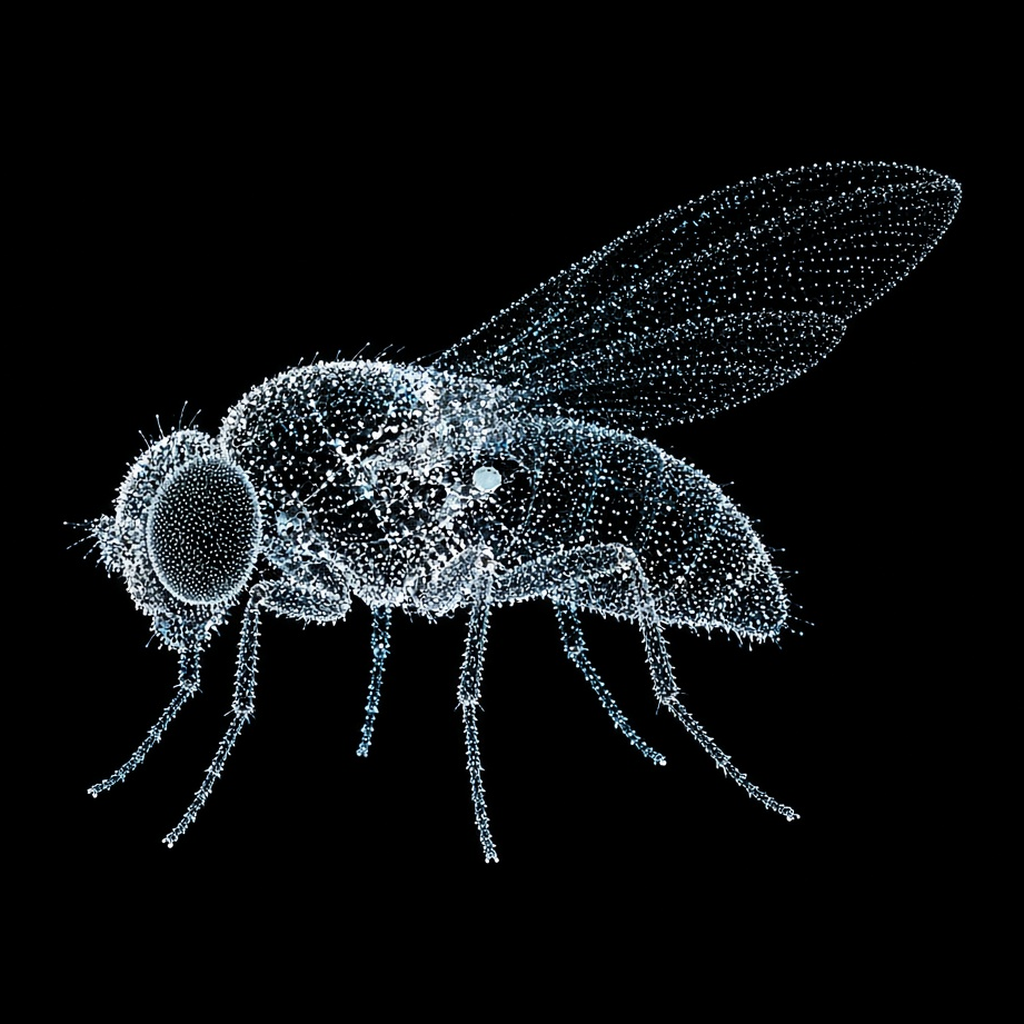
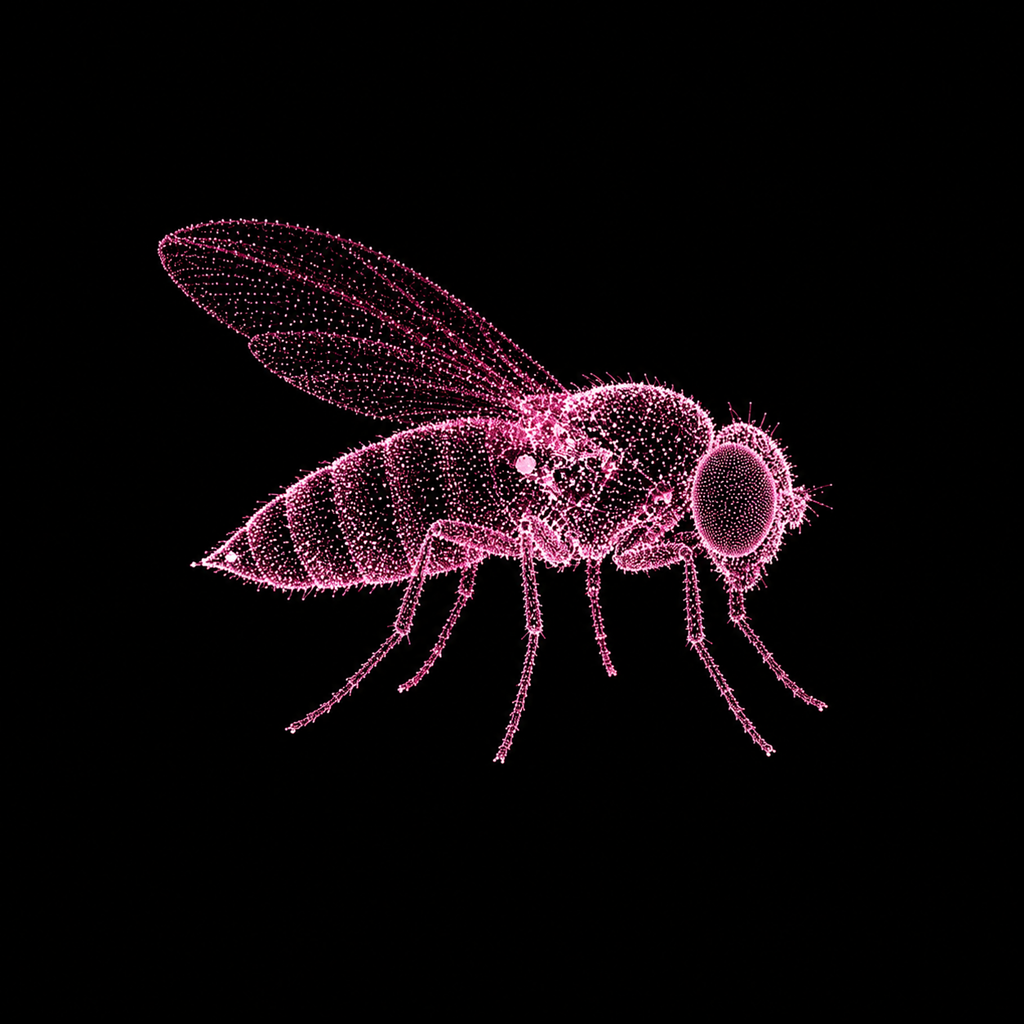
Tell the site whose brain this is

diff --git a/site/web/index.html b/site/web/index.html
@@ -3,10 +3,10 @@
 <head>
 <meta charset="utf-8">
 <meta name="viewport" content="width=device-width,initial-scale=1">
-<title>FLYBRAIN</title>
-<meta name="description" content="165,122 neurons of a real fruit fly connectome, loose on the internet and learning.">
-<meta property="og:title" content="FLYBRAIN">
-<meta property="og:description" content="165,122 neurons of a real fruit fly connectome, loose on the internet and learning.">
+<title>FEMALE FLYBRAIN</title>
+<meta name="description" content="139,255 neurons of a real female fruit fly connectome, loose on the internet and learning.">
+<meta property="og:title" content="FEMALE FLYBRAIN">
+<meta property="og:description" content="139,255 neurons of a real female fruit fly connectome, loose on the internet and learning.">
 <meta property="og:image" content="/fly.png">
 <meta name="twitter:card" content="summary_large_image">
 <link rel="icon" href="/fly.png">
@@ -21,12 +21,12 @@
   --dot-hi:#dceef8;
   --dot-mid:#7db8d4;
   /* contrast against --ground #06070a, measured:
-     ink 14.6:1  ink-dim 7.4:1  ink-faint 4.8:1  cyan 9.6:1  amber 8.9:1
+     ink 14.6:1  ink-dim 7.4:1  ink-faint 4.8:1  amber 8.9:1
      the old values were 4.0:1 and 2.3:1, which is why nothing read */
   --ink:#e2eaf1;
   --ink-dim:#9dabb7;
   --ink-faint:#75828d;
-  --cyan:#7deaff;
+  --cyan:#ff79b0;
   --amber:#f0bc5f;
   --live:#6fdca6;
   --serif:"Instrument Serif",Georgia,"Times New Roman",serif;
@@ -344,13 +344,13 @@ footer .links{display:flex;flex-wrap:wrap;gap:22px;margin-bottom:20px}
 
 <div class="plate">
   <canvas id="fly" aria-label="A fruit fly drawn as a cloud of points"></canvas>
-  <div class="corner tl">specimen<br><span style="color:var(--ink-dim)">male CNS v1.0</span></div>
+  <div class="corner tl">specimen<br><span style="color:var(--ink-dim)">FlyWire FAFB v783, female</span></div>
   <div class="corner tr">Robinhood Chain<br><span id="blk" style="color:var(--ink-dim)">block —</span></div>
-  <div class="corner bl">165,122 neurons<br><span style="color:var(--ink-dim)">10,228,000 connections</span></div>
+  <div class="corner bl">139,255 neurons<br><span style="color:var(--ink-dim)">3,641,142 connections</span></div>
   <div class="corner br"><span class="tick" id="livedot">●</span> observed live<br><span id="upd" style="color:var(--ink-dim)">—</span></div>
   <div class="title">
-    <h1>FLYBRAIN</h1>
-    <div class="latin">Drosophila melanogaster</div>
+    <h1>FEMALE FLYBRAIN</h1>
+    <div class="latin">sister build of FLYBRAIN. same experiment, the other sex.</div>
   </div>
 </div>
 
@@ -358,11 +358,11 @@ footer .links{display:flex;flex-wrap:wrap;gap:22px;margin-bottom:20px}
   <div class="wrap wide">
     <div class="eyebrow">live</div>
     <h2>Where the fly is right now</h2>
-    <p class="lede">A page goes in through 892 hex columns, 165,122 neurons integrate, and a cursor comes out. Every number on this panel is read out of the running simulation.</p>
+    <p class="lede">A page goes in through 785 hex columns per eye, both eyes on one shared grid; 139,255 neurons integrate, and a cursor comes out. Every number on this panel is read out of the running simulation.</p>
 
     <div class="term">
       <div class="tbar">
-        <span class="tname">FLYBRAIN LIVE</span>
+        <span class="tname">FEMALE FLYBRAIN LIVE</span>
         <span class="tdim">DROSOPHILA CONNECTOME &middot; OPEN INTERNET</span>
         <span class="tpills">
           <span class="pip2" id="p-vision">VISION</span>
@@ -372,7 +372,7 @@ footer .links{display:flex;flex-wrap:wrap;gap:22px;margin-bottom:20px}
           <span class="pip2 off" id="p-wallet">WALLET</span>
         </span>
         <span class="tspacer"></span>
-        <span class="tdim">165,122 NEURONS &nbsp; 10,228,000 EDGES</span>
+        <span class="tdim">139,255 NEURONS &nbsp; 3,641,142 EDGES</span>
         <span class="tlive" id="t-live">&#9679; LIVE</span>
       </div>
 
@@ -388,7 +388,7 @@ footer .links{display:flex;flex-wrap:wrap;gap:22px;margin-bottom:20px}
           <div class="tblk">
             <div class="tk">Neural activity</div>
             <div class="tbig" id="n-firing">&mdash;</div>
-            <div class="tsub">NEURONS FIRING <span class="tdim">of 165,122</span></div>
+            <div class="tsub">NEURONS FIRING <span class="tdim">of 139,255</span></div>
             <canvas id="n-spark" class="spark"></canvas>
             <div class="tquad">
               <div><div class="tql">spikes/sec</div><div class="tqv" id="n-spikes">&mdash;</div></div>
@@ -409,7 +409,7 @@ footer .links{display:flex;flex-wrap:wrap;gap:22px;margin-bottom:20px}
           </div>
 
           <div class="tblk">
-            <div class="tk">Vision &rarr; retina</div>
+            <div class="tk">Vision, retina</div>
             <div class="tvis">
               <canvas id="n-retina"></canvas>
               <div class="tvismeta">
@@ -429,7 +429,7 @@ footer .links{display:flex;flex-wrap:wrap;gap:22px;margin-bottom:20px}
               <div><div class="tql">punishments</div><div class="tqv" id="l-pun">&mdash;</div></div>
             </div>
             <div class="tsub" style="margin-top:8px;text-transform:none;letter-spacing:0">
-              <span class="tdim">KC&rarr;MBON synapses under dopamine. Depression only &mdash; that is the rule a fly actually uses.</span>
+              <span class="tdim">KC to MBON synapses under dopamine. Depression only &mdash; that is the rule a fly actually uses.</span>
             </div>
           </div>
 
@@ -461,7 +461,7 @@ footer .links{display:flex;flex-wrap:wrap;gap:22px;margin-bottom:20px}
 <div class="cabar">
   <div class="wrap cain">
     <div>
-      <div class="calabel">Contract address &middot; $FLYBRAIN</div>
+      <div class="calabel">Contract address &middot; $HER</div>
       <div class="caval" id="ca-text">&mdash;</div>
     </div>
     <button class="copy" id="ca-copy" type="button">
@@ -480,8 +480,8 @@ footer .links{display:flex;flex-wrap:wrap;gap:22px;margin-bottom:20px}
   <div class="wrap">
     <div class="eyebrow">what it is</div>
     <h2>A real nervous system, not a metaphor</h2>
-    <p class="lede">Every connection in this thing was traced from electron microscope images of an actual male fruit fly. Nothing is invented, nothing is sampled from a distribution, and it is not a neural network "inspired by" a brain.</p>
-    <p>The male <em style="font-family:var(--serif);font-style:italic">Drosophila</em> CNS connectome was released in September 2026 by HHMI Janelia FlyEM, the Cambridge Connectomics Group and Google Research, under CC-BY. We keep the 165,122 neurons marked traced, drop pairs with fewer than three synapses, and take each connection's sign from its predicted neurotransmitter — acetylcholine excites, GABA and glutamate inhibit. The neurons run as leaky integrate-and-fire units: rest &minus;52&nbsp;mV, threshold &minus;45&nbsp;mV, 20&nbsp;ms tau.</p>
+    <p class="lede">This is the whole adult female <em style="font-family:var(--serif);font-style:italic">Drosophila melanogaster</em> brain from FlyWire FAFB v783. The connectome supplies the wiring; the simulation runs it.</p>
+    <p>FlyWire FAFB v783 was released under CC-BY by the FlyWire Consortium, Princeton University and the University of Cambridge: Dorkenwald et al. 2024 (Nature) and Schlegel et al. 2024 (Nature). We keep FlyWire's filtered export, at least five synapses per pair: 139,255 neurons and 3,641,142 signed connections. Transmitter labels are assigned by cell-type majority vote, changing 22,889 labels. The neurons run as leaky integrate-and-fire units: rest &minus;52&nbsp;mV, threshold &minus;45&nbsp;mV, 20&nbsp;ms tau.</p>
   </div>
 </section>
 
@@ -489,16 +489,40 @@ footer .links{display:flex;flex-wrap:wrap;gap:22px;margin-bottom:20px}
   <div class="wrap">
     <div class="eyebrow">how it reaches the world</div>
     <h2>It sees with a fly's eye and moves with a fly's legs</h2>
-    <p class="lede">A screenshot of a live web page is sampled through 892 retinotopic hex columns into L1 and L2 — the lamina monopolar cells sitting directly behind photoreceptors R1–R6. All 165,122 neurons integrate. The cursor comes back out of the descending neurons a fly actually walks with.</p>
+    <p class="lede">A screenshot of a live web page is sampled through 785 hex columns per eye, both eyes on one shared grid: 783 left and 789 right L1 cells. All 139,255 neurons integrate. The descending neurons used have the same names and counts per side as in the male brain: DNa02 (1), DNa01 (1), MDN (4) and DNp09 (2).</p>
     <div class="wires">
       <div class="wire"><div class="cell">DNa02</div><div class="role">Left versus right. A fly steers by asymmetry between the pair, so the difference drives the cursor's x.</div></div>
       <div class="wire"><div class="cell">DNa01</div><div class="role">Forward walking. Drives the cursor's y.</div></div>
       <div class="wire"><div class="cell">MDN</div><div class="role">The Moonwalker neuron. Makes a fly walk backwards; here it reverses.</div></div>
-      <div class="wire"><div class="cell">DNp09</div><div class="role">Stopping. A fly freezes when it fires, so it became the click.</div></div>
+      <div class="wire"><div class="cell">DNp09</div><div class="role">Stopping. The female export has no MN9; she clicks from 24 proboscis motor neurons, with a threshold of 100 Hz.</div></div>
     </div>
   </div>
 </section>
 
+
+<section>
+  <div class="wrap">
+    <div class="eyebrow">the comparison</div>
+    <h2>Same experiment, the other sex</h2>
+    <p class="lede">The same rig runs both brains. The dataset, retina and click source differ.</p>
+    <div class="scroll"><table>
+      <thead><tr><th scope="col"></th><th scope="col">Male</th><th scope="col">Female</th></tr></thead>
+      <tbody>
+        <tr><th scope="row">Dataset</th><td>Janelia male CNS v1.0 (HHMI Janelia FlyEM, Cambridge Connectomics Group, Google Research), CC-BY</td><td>FlyWire FAFB v783 (FlyWire Consortium, Princeton University, University of Cambridge), CC-BY</td></tr>
+        <tr><th scope="row">Neurons</th><td>165,122</td><td>139,255</td></tr>
+        <tr><th scope="row">Connections</th><td>10,228,000, at least 3 synapses per pair</td><td>3,641,142 signed, filtered export with at least 5 synapses per pair</td></tr>
+        <tr><th scope="row">Hex columns per eye</th><td>892</td><td>785</td></tr>
+        <tr><th scope="row">Retina</th><td>892 columns</td><td>both eyes on one shared grid, 783 left L1 and 789 right L1 cells</td></tr>
+        <tr><th scope="row">Descending neurons used, per side</th><td>DNa02 (1), DNa01 (1), MDN (4), DNp09 (2)</td><td>DNa02 (1), DNa01 (1), MDN (4), DNp09 (2)</td></tr>
+        <tr><th scope="row">Click neuron</th><td>MN9, threshold 330 Hz</td><td>no MN9 in the export; 24 proboscis motor neurons, threshold 100 Hz</td></tr>
+        <tr><th scope="row">Simulation step time</th><td>0.33 s</td><td>0.12 s, same code, smaller graph</td></tr>
+        <tr><th scope="row">Offline form score</th><td>2 of 3 fields</td><td>2 of 3 fields</td></tr>
+        <tr><th scope="row">Live form score</th><td>not published</td><td>1 of 3 fields, ticker</td></tr>
+      </tbody>
+    </table></div>
+    <p style="margin-top:22px">The descending motor side is identical by name and count in both brains. The fixes that made her walk were two constants and one relabelling, all in the repo, all measurable with <code>compare.py</code> and <code>measure.py</code>.</p>
+  </div>
+</section>
 
 <section>
   <div class="wrap">
@@ -506,14 +530,14 @@ footer .links{display:flex;flex-wrap:wrap;gap:22px;margin-bottom:20px}
     <h2>How it got here</h2>
     <p class="lede">Not a roadmap of promises — a sequence, with everything before the amber line already done and checkable in the repo.</p>
     <div class="path">
-      <div class="step done"><div class="no">01</div><div class="what">Connectome loaded<em>165,122 traced neurons, 10,228,000 signed connections, built from the public dataset</em></div><div class="tag">done</div></div>
-      <div class="step done"><div class="no">02</div><div class="what">Eye wired<em>892 hex columns into L1 and L2, sampling a live browser</em></div><div class="tag">done</div></div>
-      <div class="step done"><div class="no">03</div><div class="what">Hands wired<em>DNa02, DNa01, MDN and DNp09 driving a real mouse</em></div><div class="tag">done</div></div>
-      <div class="step done"><div class="no">04</div><div class="what">Trained without touching the wiring<em>Only per-cell-type synaptic gains, by evolution strategy. Held-out +20.85 against +2.65 untrained</em></div><div class="tag">done</div></div>
-      <div class="step done"><div class="no">05</div><div class="what">Launched a token on-chain<em>It filled the form and the click produced one signed transaction</em></div><div class="tag">done</div></div>
-      <div class="step done"><div class="no">06</div><div class="what">Reward loop closed<em>44,042 KC&rarr;MBON synapses under dopamine, depressed the way a fly’s actually are. Twenty rewarded encounters moved reward-side MBONs −6.0%, left punishment-side at −0.9% and Kenyon cells unchanged</em></div><div class="tag">done</div></div>
-      <div class="step now"><div class="no">07</div><div class="what">Give it a nose<em>2,635 olfactory receptor neurons across 53 receptor types, fed token metadata as if it were an odour &mdash; a second opinion that is not visual</em></div><div class="tag">building</div></div>
-      <div class="step done"><div class="no">08</div><div class="what">Released<em>A budget, a browser, no schedule and no instructions. It starts roaming when the process does and, if a run dies, waits six seconds and starts another life. Nobody picks where it goes</em></div><div class="tag">done</div></div>
+      <div class="step done"><div class="no">01</div><div class="what">Forked<em>Started from FLYBRAIN's public rig. Three setup bugs fixed and reported upstream.</em></div><div class="tag">done</div></div>
+      <div class="step done"><div class="no">02</div><div class="what">Female connectome loaded<em>139,255 neurons, 3,641,142 signed connections, FlyWire FAFB v783.</em></div><div class="tag">done</div></div>
+      <div class="step done"><div class="no">03</div><div class="what">Blind at first<em>On a white screen 19,215 neurons fired and the steering neurons sat at their ceiling. Cause: per-cell neurotransmitter labels in the female export are noisy; a single mislabelled L1 to L5 synapse lit the whole medulla.</em></div><div class="tag">done</div></div>
+      <div class="step done"><div class="no">04</div><div class="what">Relabelled by cell type<em>One transmitter per type by majority vote, 22,889 labels changed; the white screen dropped to 691 neurons firing and the steering neurons went quiet.</em></div><div class="tag">done</div></div>
+      <div class="step done"><div class="no">05</div><div class="what">Both eyes<em>783 left and 789 right L1 cells on one shared hex grid, 785 columns per eye.</em></div><div class="tag">done</div></div>
+      <div class="step done"><div class="no">06</div><div class="what">One constant instead of a training run<em>Excitatory weights scaled by 0.5 put the steering neurons in the same band as the trained male; click threshold set to 100 Hz for her.</em></div><div class="tag">done</div></div>
+      <div class="step done"><div class="no">07</div><div class="what">Taught the form<em>55 cell-type gains by evolution strategy, 247 evaluations, offline 2 of 3 fields, the same as the male; live on the launchpad she typed the ticker herself, 1 of 3.</em></div><div class="tag">done</div></div>
+      <div class="step now"><div class="no">08</div><div class="what">Launch<em>She launches $HER from her own wallet on the same launchpad. Not yet.</em></div><div class="tag">building</div></div>
     </div>
   </div>
 </section>
@@ -521,10 +545,10 @@ footer .links{display:flex;flex-wrap:wrap;gap:22px;margin-bottom:20px}
 <section>
   <div class="wrap">
     <div class="eyebrow">on-chain</div>
-    <h2>$FLYBRAIN</h2>
-    <p class="lede">Launched by the fly, from the fly's own wallet, on Robinhood Chain. Read the receipt yourself rather than taking this page's word for it.</p>
+    <h2>$HER</h2>
+    <p class="lede">Launched by the female fly, from her own wallet, on Robinhood Chain. Until then this table is empty and says so.</p>
     <div class="scroll"><table>
-      <tr><th>Contract</th><td class="addr" id="t-ca">—</td></tr>
+      <tr><th>Contract</th><td class="addr" id="t-ca">Not launched</td></tr>
       <tr><th>Paired</th><td class="num" id="t-pair">—</td></tr>
       <tr><th>Creator tax</th><td class="num" id="t-tax">—</td></tr>
       <tr><th>Supply</th><td class="num" id="t-sup">—</td></tr>
@@ -539,9 +563,9 @@ footer .links{display:flex;flex-wrap:wrap;gap:22px;margin-bottom:20px}
     <div class="eyebrow">what is not real, stated plainly</div>
     <h2>The parts that aren't the fly</h2>
     <ul class="plain">
-      <li><b>The fly does not fill the whole form.</b> It reliably gets the description, often the ticker, rarely the name. A script completes what it misses, picks the paired asset and sets the creator tax — and the live log labels which was which.</li>
-      <li><b>It cannot read.</b> 892 columns is roughly a 30&times;30 pixel view. Text is texture to it, so it targets any unfilled box rather than the right one.</li>
-      <li><b>Light mode blinds it.</b> Its retina is a luminance map and all of its tuning was done against dark interfaces. On a light page it filled 0 of 3 fields; on a dark one, 2 of 3. That gap is the clearest evidence the eye is doing real work.</li>
+      <li><b>The fly does not fill the whole form.</b> She fills 2 of 3 fields offline and typed the ticker herself live, 1 of 3. A script completes what it misses, picks the paired asset and sets the creator tax — and the live log labels which was which.</li>
+      <li><b>It cannot read.</b> 785 columns per eye is roughly a 28&times;28 pixel view per eye. Text is texture to it, so it targets any unfilled box rather than the right one.</li>
+      <li><b>Light mode blinds the male rig.</b> The male rig filled 0 of 3 on a light page and 2 of 3 on a dark one; the female scores 2 of 3 offline and 1 of 3 live on the dark launchpad.</li>
       <li><b>It has no goals.</b> A fly brain has no language and no plan. It cannot read a page, form a view about a coin, or write a note. Releasing it means nobody is steering, not that it decided anything.</li>
       <li><b>The reward signal is invented.</b> The circuit, the plasticity site and the direction of the rule are all real and measured. What a fly is rewarded <em style="font-style:italic">by</em> is sugar, not by reaching a web page &mdash; novelty stands in for it here, and that is a choice a person made.</li>
       <li><b>It roams inside a fence.</b> An allowlist keeps it on Robinhood Chain and pons. That is a choice, not a limit of the fly &mdash; one environment variable takes the fence down, and an unfenced random clicker on a public stream is a bad idea for reasons that have nothing to do with the brain.</li>
@@ -552,12 +576,13 @@ footer .links{display:flex;flex-wrap:wrap;gap:22px;margin-bottom:20px}
 <footer>
   <div class="wrap">
     <div class="links">
-      <a href="https://github.com/fruitflydev/flycoinrh">source</a>
-      <a href="https://x.com/fruitflydev">@fruitflydev</a>
+      <a href="https://github.com/opifor/flybrain-female">source</a>
+      <a href="https://x.com/opifor">@opifor</a>
+      <span>sister of <a href="https://github.com/fruitflydev/flycoinrh">FLYBRAIN</a></span>
       <a id="f-scan" href="https://robinhoodchain.blockscout.com">explorer</a>
     </div>
     <div><span class="pill"><span class="pip" id="pip"></span><span id="pip-t">reading the chain</span></span></div>
-    <p style="margin-top:22px;max-width:66ch">Connectome data &copy; HHMI Janelia FlyEM, the Cambridge Connectomics Group and Google Research, released CC-BY. Simulation after Shiu et&nbsp;al. 2024 and Lappalainen et&nbsp;al. 2024. Not affiliated with any of them, nor with pons or Robinhood. $FLYBRAIN is an art experiment, not an investment.</p>
+    <p style="margin-top:22px;max-width:66ch">Connectome data: FlyWire FAFB v783, released CC-BY by the FlyWire Consortium, Princeton University and the University of Cambridge. Dorkenwald et al. 2024 (Nature) and Schlegel et al. 2024 (Nature). Simulation after Shiu et&nbsp;al. 2024 and Lappalainen et&nbsp;al. 2024. Not affiliated with any of them, nor with pons or Robinhood. $HER is an art experiment, not an investment.</p>
   </div>
 </footer>
 
@@ -653,7 +678,7 @@ function draw(){
     const a = 0.24 + depth*0.55 + h*0.9;
     const r = (0.62 + depth*0.95 + h*1.7) * (Math.min(devicePixelRatio||1,2));
     cx.globalAlpha = Math.min(1, a);
-    cx.fillStyle = h > 0.25 ? '#9eecff' : (depth > 0.58 ? '#e8f4fb' : '#6ba2bd');
+    cx.fillStyle = h > 0.25 ? '#ff79b0' : (depth > 0.58 ? '#fbe8f0' : '#b8688a');
     cx.fillRect(X, Y, r, r);
     if (h > 0) heat[i] = h - 0.022;
   }
